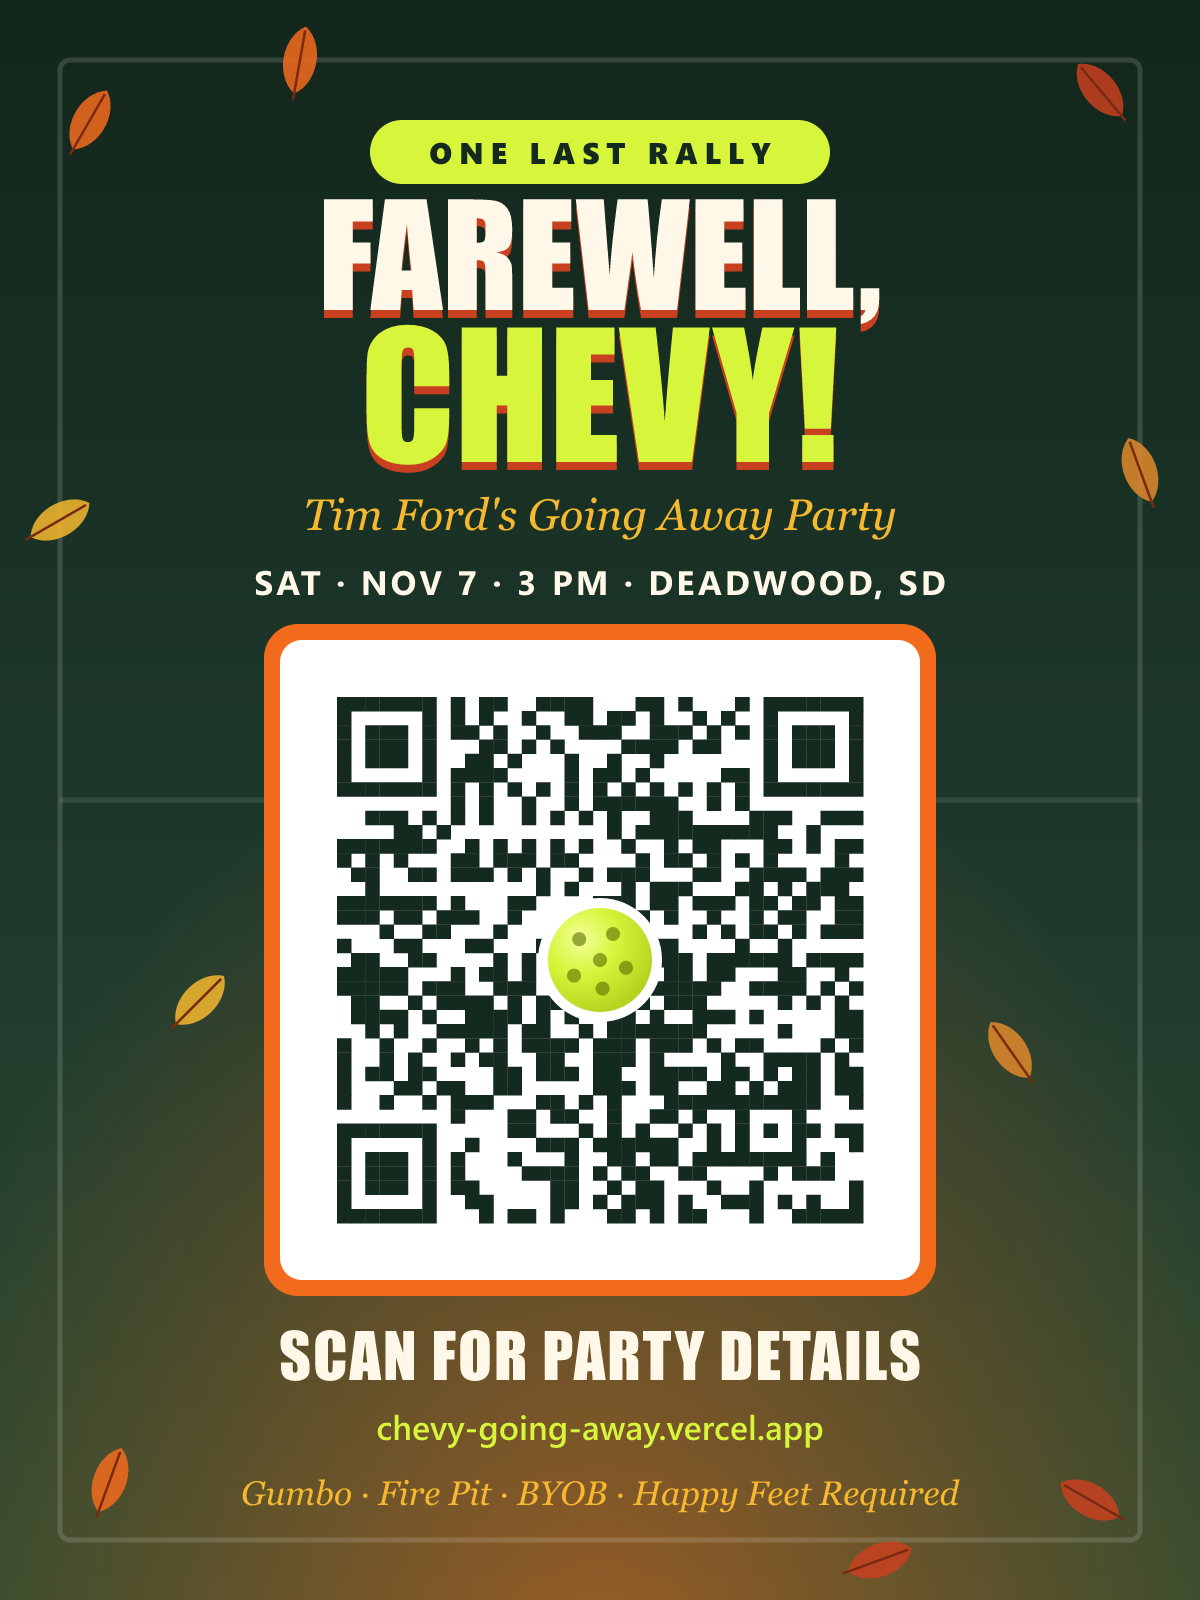
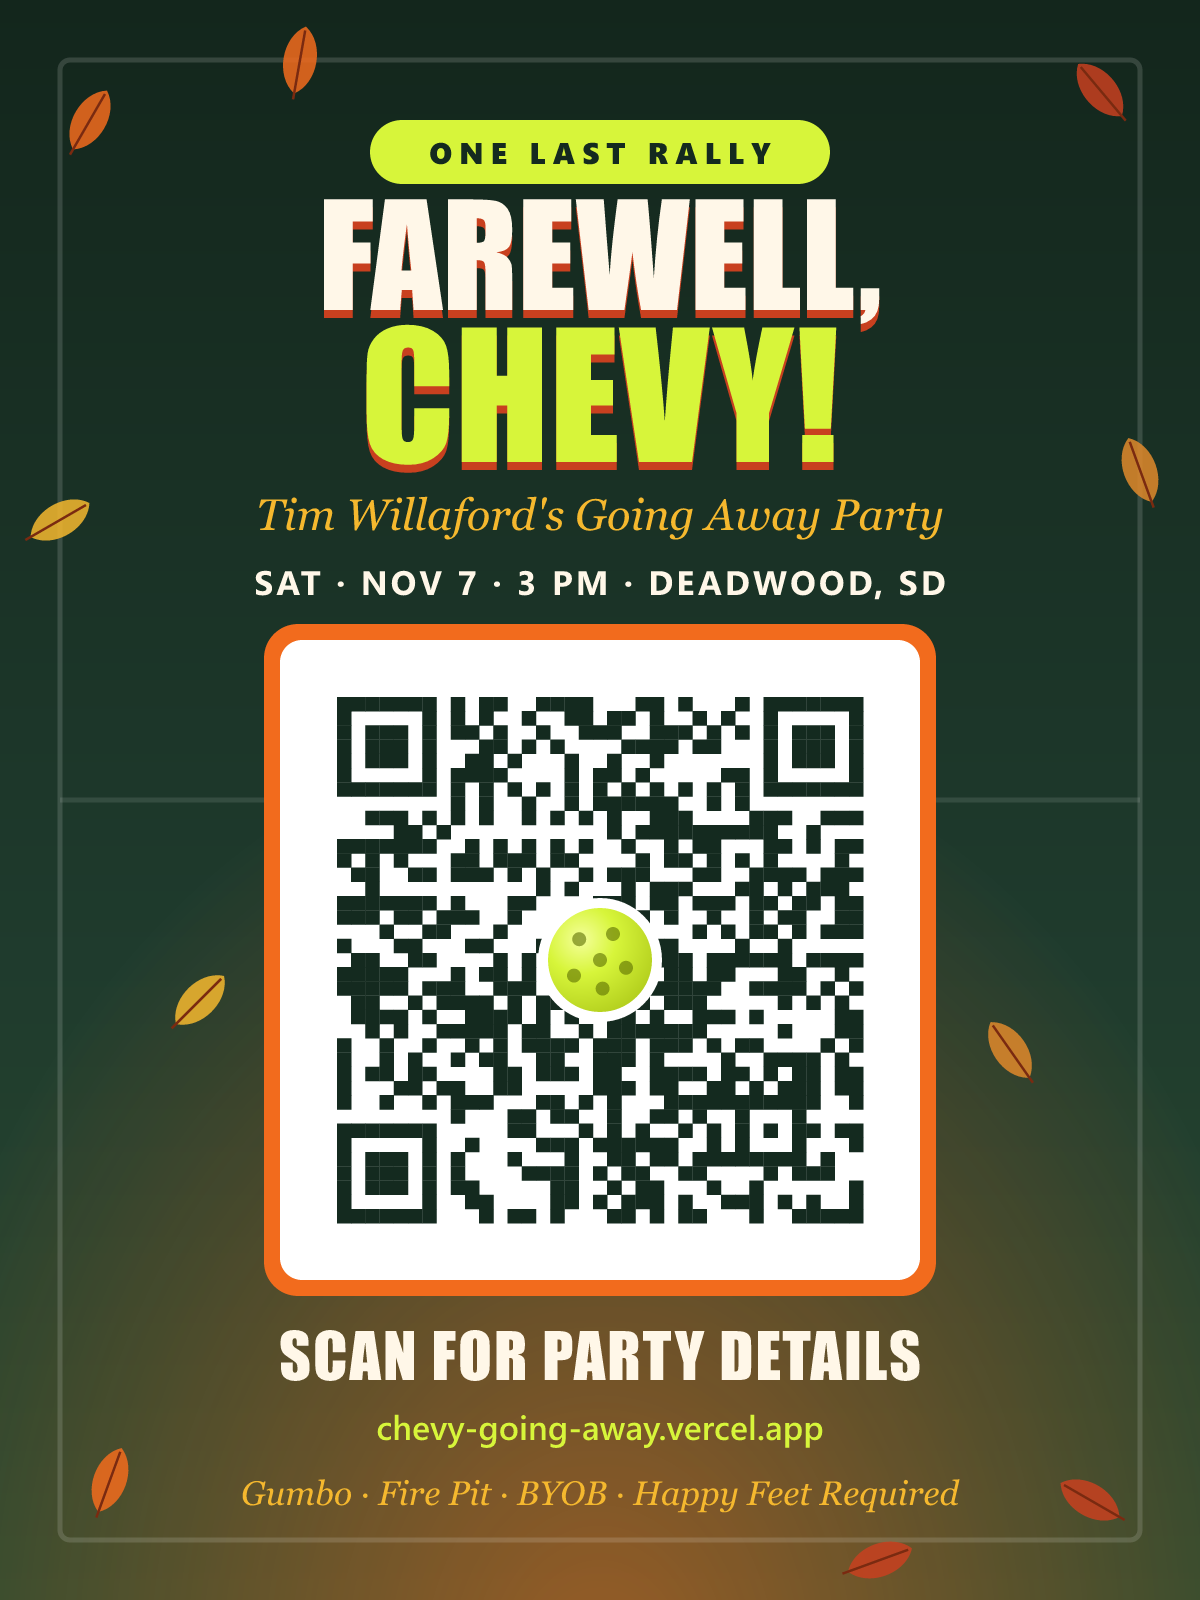
Correct name to Tim Willaford

Changed region(s): [[0.2158, 0.3125, 0.8017, 0.3438]]

diff --git a/index.html b/index.html
@@ -4,7 +4,7 @@
   <meta charset="utf-8" />
   <meta name="viewport" content="width=device-width, initial-scale=1" />
   <title>Farewell, Chevy! · Going Away Party</title>
-  <meta name="description" content="One last rally for Chevy (Tim Ford). Saturday, November 7 at 3 PM in Deadwood, SD." />
+  <meta name="description" content="One last rally for Chevy (Tim Willaford). Saturday, November 7 at 3 PM in Deadwood, SD." />
   <meta property="og:title" content="Farewell, Chevy! 🏓 Going Away Party" />
   <meta property="og:description" content="Saturday, November 7 · 3 PM · Deadwood, SD. Gumbo provided, BYOB, happy feet required." />
   <meta name="theme-color" content="#1f3b2d" />
@@ -300,11 +300,11 @@
       <div class="hero-inner">
         <span class="kicker">🏓 One last rally 🏓</span>
         <div class="portrait">
-          <img src="chevy.jpg" alt="Chevy (Tim Ford) smiling" width="600" height="600" />
+          <img src="chevy.jpg" alt="Chevy (Tim Willaford) smiling" width="600" height="600" />
           <span class="mvp">MVP 🏓</span>
         </div>
         <h1>Farewell,<br /><span class="chevy">Chevy!</span></h1>
-        <div class="script">Tim Ford's Going Away Party</div>
+        <div class="script">Tim Willaford's Going Away Party</div>
         <p class="sub">From sunny summer games to crisp fall dinks, Chevy has been a great part of our crew. Now he's off to a new job, so let's send him off right!</p>
 
         <div class="ball-stage" aria-hidden="true">
@@ -522,7 +522,7 @@
     // ---- calendar ----
     const TITLE = "Chevy's Going Away Party 🏓";
     const LOCATION = "15 Forest Ave, Deadwood, SD 57732";
-    const DESC = "One last rally for Chevy (Tim Ford)! Park on the street at 65 Centennial, then cross the road and walk down the wooden stairs to the green metal-roofed house: Rosie (15 Forest Ave). Inside & outside by the fire pit, weather permitting. Gumbo provided. Bring a dish, snack, or dessert. BYOB. RSVP via TeamReach or text.";
+    const DESC = "One last rally for Chevy (Tim Willaford)! Park on the street at 65 Centennial, then cross the road and walk down the wooden stairs to the green metal-roofed house: Rosie (15 Forest Ave). Inside & outside by the fire pit, weather permitting. Gumbo provided. Bring a dish, snack, or dessert. BYOB. RSVP via TeamReach or text.";
     const stamp = d => d.toISOString().replace(/[-:]/g, "").replace(/\.\d{3}/, "");
 
     document.getElementById("gcal").href =
